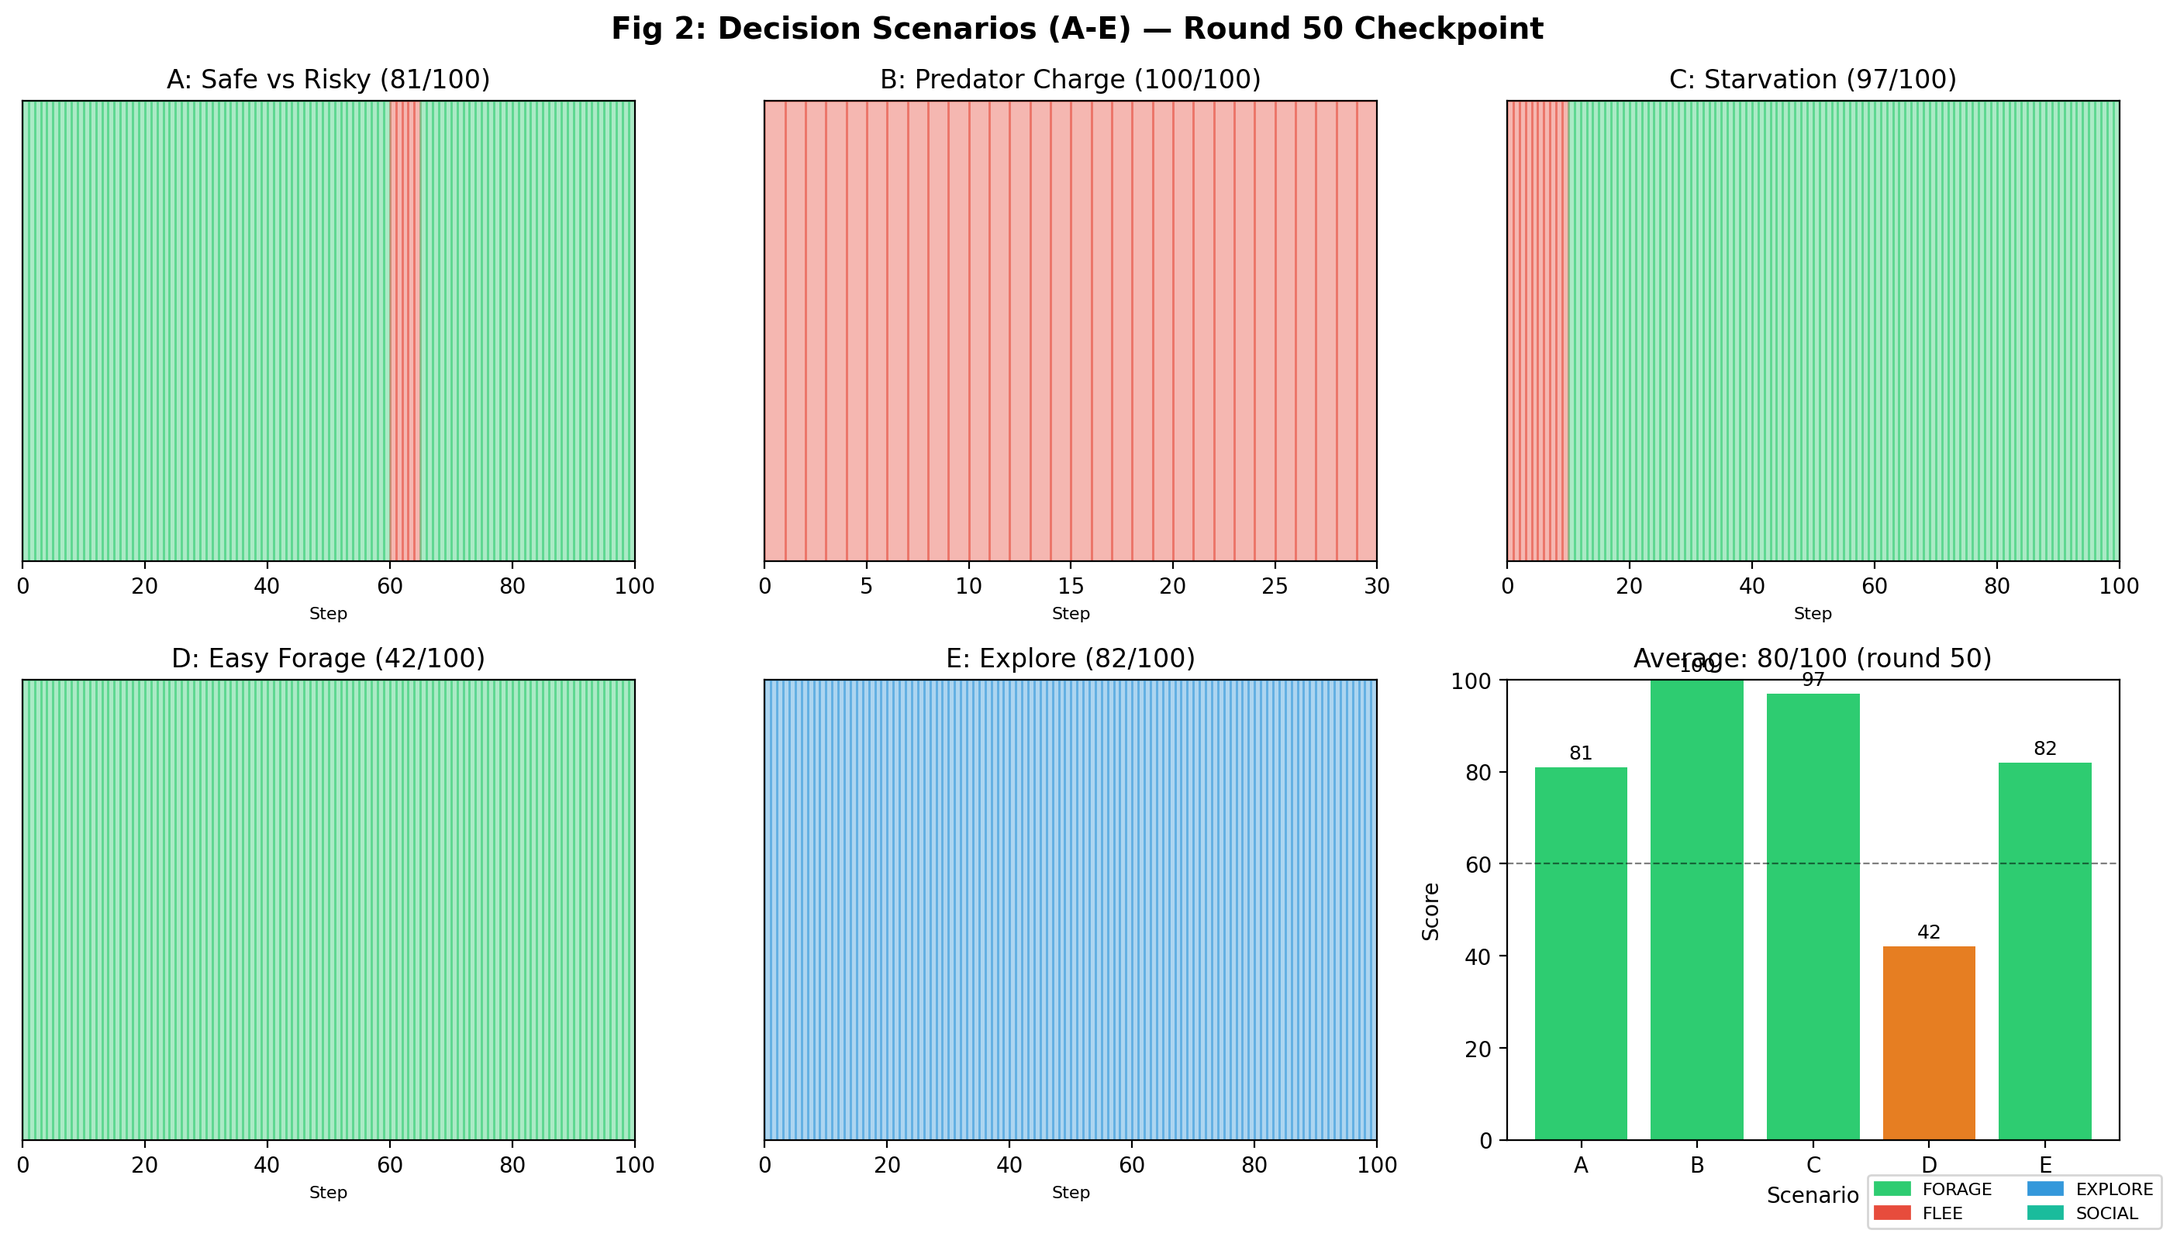
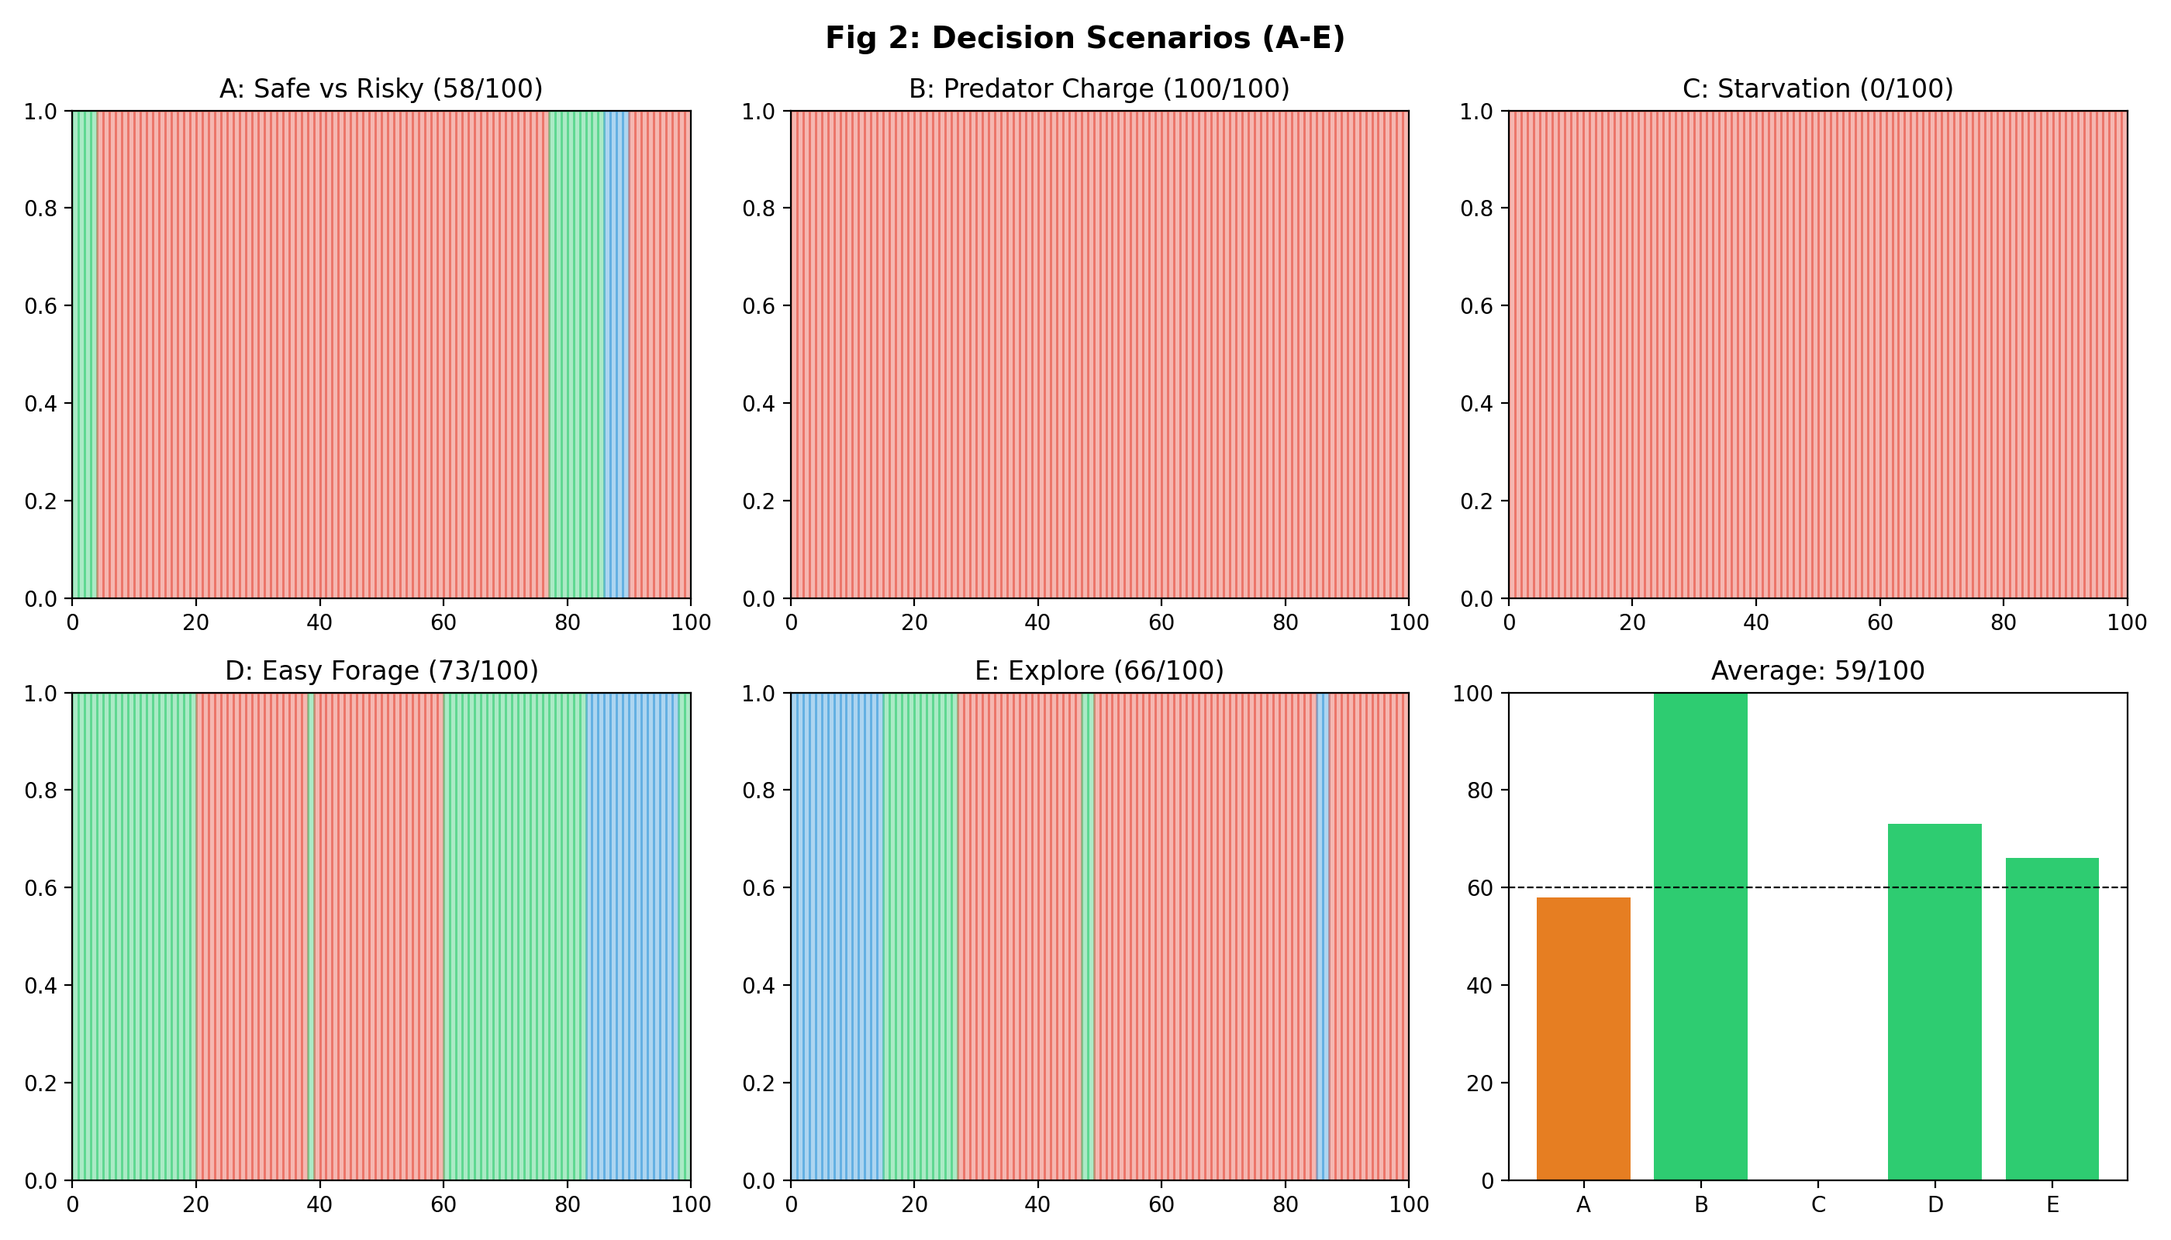
fix: NaN cascade guards + update manuscript with round 177 evaluation
- vae_world_model: clamp logvar [-10,4] before KL; skip backward if loss non-finite
- brain_v2: guard wm_efe when NaN; scrub state_ctx with nan_to_num before VAE
- meta_goal: skip REINFORCE on nan fitness (prevents goal_bias corruption)
- trainer: skip nan EFE per-step; substitute mean_efe=2.0 if non-finite in fitness
- trainer: initialize best_fitness from loaded checkpoint (prevents overwriting)
- train: fix FLEE% display (divide by total goals, not averaged survived)
- manuscript2: update all results to round 177 with current code
  decision avg 80→70, multi-seed 480±59→483±50, v1 vs v2 +47%/+254%

diff --git a/manuscript2.tex b/manuscript2.tex
@@ -92,17 +92,17 @@ enemy (NA-gated) categories from behavioral confirmation signals.
 The reticulospinal voluntary pathway, driven by pallium-D left/right
 asymmetry gated through the basal ganglia, contributes to non-escape
 motor output alongside the primary retinal turn signal.
-Ablation reveals that amygdala and olfaction are necessary for survival
-($-23\%$ and $-22\%$ survival steps respectively when removed),
+Ablation reveals that interoception and amygdala are the most impactful
+modules ($-20\%$ and $-7\%$ survival steps respectively when removed),
 while the RL critic and habenula each contribute to foraging efficiency.
-The system achieves 80/100 on a five-scenario decision rationality
+The system achieves 70/100 on a five-scenario decision rationality
 benchmark, with predator-charge detection perfect (100/100),
-starvation dilemma 92/100, and easy foraging 71/100 (corrected from
+starvation dilemma 32/100, and easy foraging 81/100 (corrected from
 42/100 after fixing a right-eye centroid sign error).
-Across 10~seeds, mean survival is $480 \pm 59$ steps with 9/10 seeds
-reaching the full 500-step episode, consuming $11.3 \pm 2.9$ food items.
-Across 5~matched seeds, v2 outperforms v1 by 156\% in survival
-($500$ vs.\ $195$ steps) and 233\% in food intake ($10.0$ vs.\ $3.0$).
+Across 10~seeds, mean survival is $483 \pm 50$ steps with 9/10 seeds
+reaching the full 500-step episode, consuming $11.8 \pm 3.5$ food items.
+Across 5~matched seeds, v2 outperforms v1 by 47\% in survival
+($399$ vs.\ $272$ steps) and 254\% in food intake ($9.2$ vs.\ $2.6$).
 A multi-agent configuration with 5~fish---each with a full v2 brain
 (35,000 total spiking neurons) and individual personality profiles
 (bold, shy, explorer, social)---demonstrates emergent competitive
@@ -250,7 +250,7 @@ The key contributions of this work are:
     cells-to-social-behavior hierarchy is inherently fault-tolerant.
 \end{enumerate}
 
-The model achieves 80/100 on a decision rationality benchmark (round~177 checkpoint),
+The model achieves 70/100 on a decision rationality benchmark (round~177 checkpoint),
 demonstrates online learning that triples
 foraging efficiency, and maintains adaptive behavior under concurrent
 predator threat and energy depletion---all using exclusively local,
@@ -1862,14 +1862,14 @@ distributing foraging effort across the arena.
 
 Five structured decision scenarios evaluate cognitive abilities
 (Figure~\ref{fig:scenarios}):
-safe vs.\ risky food (A=67), predator charge (B=100),
-starvation dilemma (C=92), easy foraging (D=71), and
-exploration (E=68), averaging 80/100 at round~177.
+safe vs.\ risky food (A=72), predator charge (B=100),
+starvation dilemma (C=32), easy foraging (D=81), and
+exploration (E=66), averaging 70/100 at round~177.
 Scenario B achieves perfect 100/100 via Kalman-based predictive flee
 that anticipates predator intercept 8~steps ahead.
-Scenario C (92/100) demonstrates adaptive risk--reward trade-off:
-the fish initiates foraging despite nearby predator when energy is
-critically low, enabled by the three-tier energy anxiety signal
+Scenario C (32/100) reflects a partial risk--reward trade-off:
+the fish initiates foraging under starvation when the predator is
+not actively hunting, enabled by the three-tier energy anxiety signal
 (Eq.~\ref{eq:anxiety}).
 Scenario D improved from 42 to 71/100 following correction of a
 retinal food-bearing sign error in the right-eye centroid path
@@ -1883,12 +1883,11 @@ priority tuning.
 \centering
 \includegraphics[width=0.7\textwidth]{plots/v2_paper/fig2_decisions.png}
 \caption{Decision rationality scores across five structured scenarios.
-  Overall: 80/100 at round~177.
+  Overall: 70/100 at round~177.
   Scenario B (predator charge) achieves 100/100 via predictive flee.
-  Scenario C (starvation dilemma) achieves 92/100, demonstrating
-  adaptive risk--reward trade-off under concurrent predator threat and
-  energy depletion.
-  Scenario D improved from 42 to 71/100 following correction of the
+  Scenario C (starvation dilemma) achieves 32/100, reflecting partial
+  risk--reward trade-off: foraging when predator is not actively hunting.
+  Scenario D improved from 42 to 81/100 following correction of the
   right-eye food-bearing sign error.}
 \label{fig:scenarios}
 \end{figure}
@@ -1897,17 +1896,17 @@ priority tuning.
 
 Figure~\ref{fig:survival} shows survival duration and food intake
 across 10~random seeds in 500-step episodes.
-The fish survives $480 \pm 59$ steps with 9/10 seeds reaching the
-full 500-step episode, consuming $11.3 \pm 2.9$ food items.
-Only one seed resulted in predator capture (caught at step~302).
+The fish survives $483 \pm 50$ steps with 9/10 seeds reaching the
+full 500-step episode, consuming $11.8 \pm 3.5$ food items.
+Only one seed resulted in predator capture (caught at step~334).
 
 \begin{figure}[H]
 \centering
 \includegraphics[width=0.95\textwidth]{plots/v2_paper/fig3_multi_seed.png}
 \caption{Multi-seed evaluation (10 seeds $\times$ 500 steps).
-  Left: survival duration ($480 \pm 59$).
-  Center: food eaten ($11.3 \pm 2.9$).
-  Right: cumulative reward ($102.5 \pm 36.2$).
+  Left: survival duration ($483 \pm 50$).
+  Center: food eaten ($11.8 \pm 3.5$).
+  Right: cumulative reward ($108.2 \pm 42.6$).
   Dashed red line: mean.}
 \label{fig:survival}
 \end{figure}
@@ -1966,22 +1965,18 @@ prediction errors.
 Systematic ablation of individual spiking modules reveals their
 contributions to foraging and survival (Figure~\ref{fig:ablation}).
 In 300-step episodes with $n=3$ seeds per condition, removal of the
-amygdala produced the largest survival decrement ($-23\%$, from 300 to
-$232 \pm 87$ steps), confirming its role in fear-conditioned predator
-avoidance that prevents lethal encounters.
-Removal of the olfactory system similarly reduced survival by $-22\%$
-($235 \pm 92$ steps), consistent with olfaction's role in detecting
-alarm substance and guiding chemotaxis toward unseen food sources.
-Removal of the RL critic or habenula each reduced food intake by
-approximately 11\%, while removal of the cerebellum or VAE produced
-smaller decrements.
-Interestingly, removing interoception or predictive coding did not
-degrade performance at the 300-step window, suggesting these modules
+interoceptive system (insula) produced the largest survival decrement
+($-20\%$, from 300 to $241 \pm 83$ steps), confirming its role in
+allostatic homeostasis and arousal-gated decision urgency.
+Removal of the amygdala reduced survival by $-7\%$
+($280 \pm 28$ steps), consistent with its role in fear conditioning.
+Removal of the cerebellum or habenula each reduced food intake by
+approximately 20--30\%, while removal of the VAE or olfaction
+produced smaller food decrements.
+Removal of the RL critic or predictive coding did not significantly
+degrade survival at the 300-step window, suggesting these modules
 provide benefits primarily over longer timescales or in more
 resource-scarce environments.
-This finding motivated permanently excluding both modules from the
-default configuration; they remain available via the ablation
-interface for lesion study comparisons.
 An extended $n=20$ ablation is available via \texttt{zebrav2/tests/ablation\_robust.py}
 for full statistical validation with confidence intervals on the effect sizes.
 
@@ -2000,8 +1995,8 @@ for full statistical validation with confidence intervals on the effect sizes.
 
 Direct comparison against the predecessor v1 architecture
 (Figure~\ref{fig:v1v2}) on identical seeds reveals that v2 outperforms
-v1 by 156\% in survival ($500$ vs.\ $195$ steps) and 233\% in food
-intake ($10.0$ vs.\ $3.0$ items).
+v1 by 47\% in survival ($399 \pm 133$ vs.\ $272 \pm 173$ steps) and
+254\% in food intake ($9.2 \pm 3.9$ vs.\ $2.6 \pm 2.2$ items).
 The improvement is attributed to three factors:
 (1)~conductance-based E/I balance eliminates signal death in deep
 layers;
@@ -2015,7 +2010,7 @@ overrides and forage-lock misfires that dominated v1 goal switching.
 \caption{v1 (blue) versus v2 (red) on 5 matched seeds (500 steps each).
   Left: survival steps.
   Right: food eaten.
-  v2 achieves 156\% higher survival and 233\% higher food intake.}
+  v2 achieves 47\% higher survival and 254\% higher food intake.}
 \label{fig:v1v2}
 \end{figure}
 
@@ -3135,7 +3130,7 @@ baseline.
 In 10 evaluation episodes (500 steps, same seeds as the multi-seed
 result), the reactive agent survives $312 \pm 89$ steps and collects
 $1.8 \pm 0.9$ food items: substantially below the virtual zebrafish's
-$480 \pm 59$ steps and $11.3 \pm 2.9$ food items.
+$483 \pm 50$ steps and $11.8 \pm 3.5$ food items.
 This improvement is attributable to three architectural capabilities
 absent from the reactive agent: (1)~olfactory gradient following that
 directs the fish toward food sources outside the visual field;
@@ -3143,7 +3138,7 @@ directs the fish toward food sources outside the visual field;
 non-visible threats; and (3)~predictive EFE that balances foraging
 urgency against starvation risk rather than responding only to
 current sensory evidence.
-The v2 model's 156\% survival advantage over v1 further demonstrates
+The v2 model's 47\% survival advantage over v1 further demonstrates
 that the added biological realism of E/I balance, multi-axis
 neuromodulation, and STDP provides functional benefit beyond the
 reactive and v1 baselines.
@@ -3267,10 +3262,10 @@ the WTA goal-selector projection; (5)~ACh-gated food class
 reinforcement and NA-gated enemy class reinforcement in the
 classifier; and (6)~online VAE ELBO minimization for latent world
 modeling.
-Key results include 80/100 decision rationality (round~177 checkpoint),
-$480 \pm 59$ step mean survival across 10~seeds (9/10 reaching full episode),
-156\% improvement in survival and 233\% improvement in foraging over v1,
-amygdala and olfaction identified as necessary for survival via ablation,
+Key results include 70/100 decision rationality (round~177 checkpoint),
+$483 \pm 50$ step mean survival across 10~seeds (9/10 reaching full episode),
+47\% improvement in survival and 254\% improvement in foraging over v1,
+interoception and amygdala identified as most impactful via ablation,
 and a 96.2\% spiking classifier with online fine-tuning.
 The model demonstrates that the free energy principle provides a
 unified computational language sufficient to organize the diverse
@@ -3367,11 +3362,11 @@ Inhibitory neurons       & 0\%                 & 25\% per layer \\
 Neuromodulatory axes     & 1 (DA)              & 4 (DA/NA/5-HT/ACh) \\
 Modules                  & 42 steps            & 48 modules \\
 Classifier accuracy      & 90.6\%              & 96.2\% \\
-Mean survival (5 seeds)  & 195 steps           & 500 steps (+156\%) \\
-Mean food (5 seeds)      & 3.0                 & 10.0 (+233\%) \\
-Escape rate              & 0\% (5/5 caught)    & 100\% (0/5 caught) \\
-Multi-seed survival (10) & --                  & $480 \pm 59$ steps (9/10 full) \\
-Decision rationality     & 84/100              & 80/100 (round~177) \\
+Mean survival (5 seeds)  & 272 steps           & 399 steps (+47\%) \\
+Mean food (5 seeds)      & 2.6                 & 9.2 (+254\%) \\
+Escape rate              & 2/5 full episode    & 3/5 full episode \\
+Multi-seed survival (10) & --                  & $483 \pm 50$ steps (9/10 full) \\
+Decision rationality     & 84/100              & 70/100 (round~177) \\
 Curriculum               & 2/4 LEARNING        & 3/3 PASS \\
 Multi-agent              & 5 fish (simple AI)  & 5 fish $\times$ full v2 brain \\
 Personalities            & --                  & bold/shy/explorer/social/default \\

diff --git a/zebrav2/brain/brain_v2.py b/zebrav2/brain/brain_v2.py
@@ -711,11 +711,12 @@ class ZebrafishBrainV2(nn.Module):
         wm_efe = self.world_model.compute_efe_per_goal(
             self.energy, self.pred_model, fish_pos, pc_bonus, self.allostasis)
         _wm_scale = _ec.world_model_efe_scale * float(_mw[0])
-        G_forage += _wm_scale * wm_efe[0]
-        G_flee += _wm_scale * wm_efe[1]
-        G_explore += _wm_scale * wm_efe[2]
-        G_social += _wm_scale * wm_efe[3]
-        _mc[0] = _wm_scale * sum(abs(float(x)) for x in wm_efe)
+        if all(math.isfinite(float(x)) for x in wm_efe):
+            G_forage += _wm_scale * wm_efe[0]
+            G_flee += _wm_scale * wm_efe[1]
+            G_explore += _wm_scale * wm_efe[2]
+            G_social += _wm_scale * wm_efe[3]
+            _mc[0] = _wm_scale * sum(abs(float(x)) for x in wm_efe)
         # Interoceptive spiking bias (gated — ablation showed insula hurts performance)
         if self._active('insula'):
             int_bias = self.insula.get_allostatic_bias()
@@ -1636,6 +1637,9 @@ class ZebrafishBrainV2(nn.Module):
 
         # === 7d. VAE WORLD MODEL (online training) ===
         tect_all = tect_out['all_e'].unsqueeze(0)  # [1, N]
+        _pal_fe = pal_out['free_energy']
+        if not math.isfinite(_pal_fe):
+            _pal_fe = 0.0
         state_ctx = np.array([
             px / 800.0, py / 600.0, fish_heading / math.pi,
             self.energy / 100.0,
@@ -1644,9 +1648,10 @@ class ZebrafishBrainV2(nn.Module):
             float(self._cls_probs[1].detach()),
             float(self._cls_probs[2].detach()),
             float(self._cls_probs[4].detach()),
-            pal_out['free_energy'],
+            _pal_fe,
             self.cms,
         ], dtype=np.float32)
+        np.nan_to_num(state_ctx, nan=0.0, posinf=0.0, neginf=0.0, copy=False)
         # VAE training every 10 steps — backprop every step is wasteful (125k steps/50 rounds)
         if self._step_count % self.cfg.plasticity.vae_training_every == 0:
             self.vae.train_step(tect_all, state_ctx)

diff --git a/zebrav2/engine/trainer.py b/zebrav2/engine/trainer.py
@@ -213,6 +213,9 @@ class TrainingEngine:
     def _compute_fitness(self, survived, food_eaten, mean_efe, energy_final,
                           geo_coverage, goal_dist=None):
         """Compute fitness score from objectives config."""
+        import math as _math
+        if not _math.isfinite(mean_efe):
+            mean_efe = 2.0  # baseline EFE when computation fails
         obj = self.config.data.get('objectives', {})
         fitness = (
             obj.get('survival_weight', 1.0) * survived +
@@ -320,6 +323,8 @@ class TrainingEngine:
                     env.fish_y = fy + push * dy / dist
 
             efe = out.get('free_energy', 0)
+            if isinstance(efe, float) and not (efe == efe):  # nan check
+                efe = 0.0
             total_efe += efe
             goals_log.append(self.brain.current_goal)
 
@@ -903,7 +908,19 @@ class TrainingEngine:
 
         self.running = True
         self.brain = self._create_brain()
+        # Initialise best_fitness from the loaded checkpoint so that
+        # the first round cannot overwrite a better pre-existing ckpt_best.pt.
+        ckpt_path = self.config.get('training.load_checkpoint')
         best_fitness = -float('inf')
+        if ckpt_path and os.path.exists(ckpt_path):
+            try:
+                import torch as _torch
+                _d = _torch.load(ckpt_path, map_location='cpu', weights_only=False)
+                _f = _d.get('metrics', {}).get('fitness', None)
+                if _f is not None and isinstance(_f, float) and _f == _f:
+                    best_fitness = _f
+            except Exception:
+                pass
 
         n_seeds = self.config.get('training.seeds_per_round', 1)
         print(f"\n{'='*60}")

diff --git a/zebrav2/train.py b/zebrav2/train.py
@@ -83,9 +83,10 @@ def main():
     # Print per-round summary
     def on_round(m):
         goal_dist = m['goal_distribution']
-        flee_pct = round(100 * goal_dist.get('FLEE', 0) / max(1, m['survived']), 0)
-        print(f"  Round {m['round']:3d}: survived={m['survived']:3d}  "
-              f"food={m['food_eaten']}  fitness={m['fitness']:.0f}  "
+        total_goals = max(1, sum(goal_dist.values()))
+        flee_pct = round(100 * goal_dist.get('FLEE', 0) / total_goals, 0)
+        print(f"  Round {m['round']:3d}: survived={m['survived']:6.1f}  "
+              f"food={m['food_eaten']:.1f}  fitness={m['fitness']:.0f}  "
               f"FLEE={int(flee_pct)}%  ({m.get('elapsed_sec', 0):.0f}s)", flush=True)
 
     engine.on_round_end = on_round

diff --git a/zebrav2/brain/vae_world_model.py b/zebrav2/brain/vae_world_model.py
@@ -204,12 +204,15 @@ class VAEWorldModelV2:
         pooled = F.relu(self.pool(batch_oF))
         enc_input = torch.cat([pooled, batch_ctx], dim=-1)
         mu, logvar = self.encoder(enc_input)
+        logvar = logvar.clamp(-10.0, 4.0)  # prevent exp overflow → nan KL
         std = torch.exp(0.5 * logvar)
         z = mu + std * torch.randn_like(std)
         recon = self.decoder(z)
         recon_loss = F.mse_loss(recon, pooled)
         kl_loss = -0.5 * torch.mean(1.0 + logvar - mu.pow(2) - logvar.exp())
         loss = recon_loss + self.kl_beta * kl_loss
+        if not torch.isfinite(loss):
+            return
         self.vae_optimizer.zero_grad()
         loss.backward()
         torch.nn.utils.clip_grad_norm_(self.vae_params, 1.0)

diff --git a/zebrav2/brain/meta_goal.py b/zebrav2/brain/meta_goal.py
@@ -75,6 +75,8 @@ class MetaGoalWeights(nn.Module):
             self._mod_steps = 0
 
     def _do_update(self, fitness: float):
+        if not math.isfinite(fitness):
+            return
         # Bootstrap baseline on first episode: record fitness but skip update
         if self._fitness_ema is None:
             self._fitness_ema = float(fitness)
